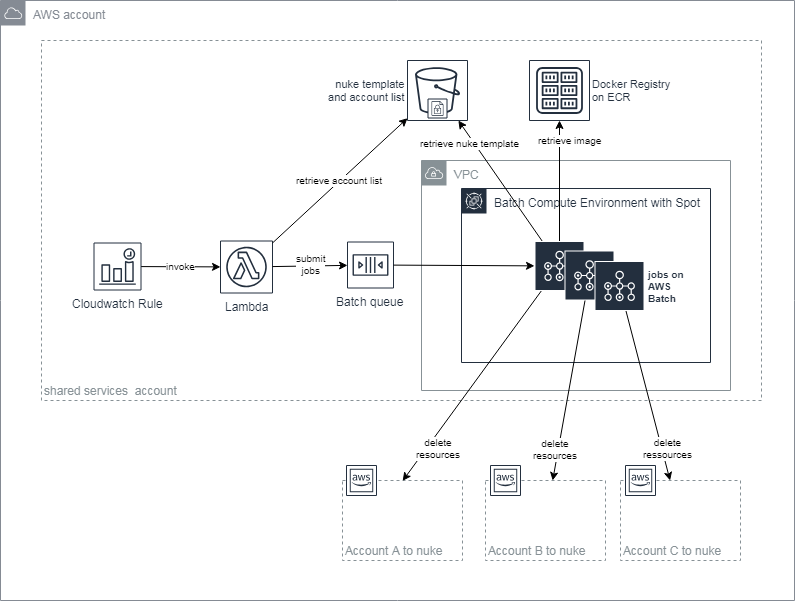
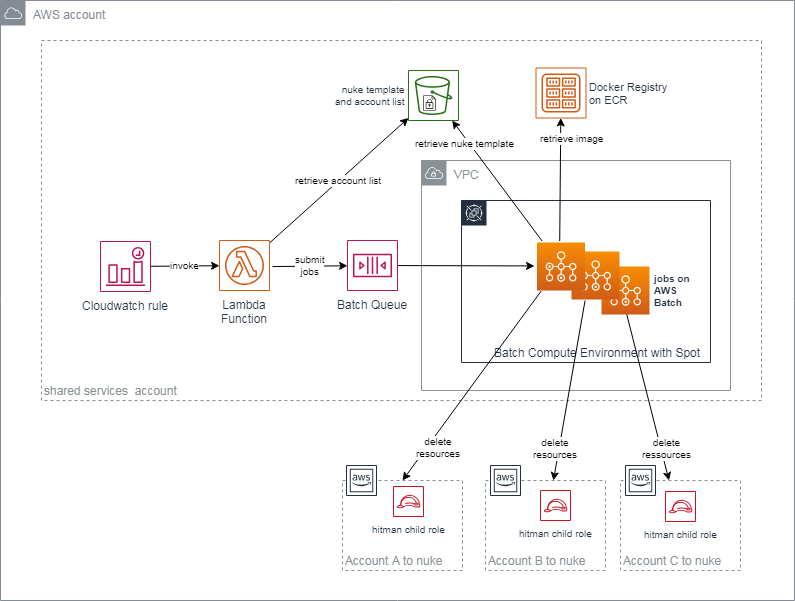
move as parameter the role to assume

diff --git a/README.md b/README.md
@@ -24,18 +24,19 @@ It simply industrializes the deletion process thanks to the following AWS ressou
 
 Hitman needs :
 - a VPC
-- a subnet
+- a private subnet
 
 ## Installation
 
-1. deploy the cf-hitman-common.yml Cloudformation stack
+1. deploy the cf-hitman-common.yml Cloudformation stack in the central account
 2. build, tag and push the Docker image. Follow the information provided in the ECR repository page.
 3. add the list of accounts to nuke in accounts.list file
 4. customize awsnuke-config-template.yaml :
-   - add in the blacklist part the account we will never want to nuke
+   - add in the blacklist part the accounts you will never want to nuke
    - add the resources you to not want to delete. Keep the role by Hitman to delete resources
 5. upload both the accounts.list and awsnuke-config-template.yaml files in the create S3 bucket
-6. deploy the cf-hitman-batch.yml Cloudformation stack
+6. deploy the cf-hitman-batch.yml Cloudformation stack in the central account
+7. in each child account (or once we a Stackset), deploy cf-hitman-child-account.yml to deploy the need role to assume
 
 ## Warning
 
